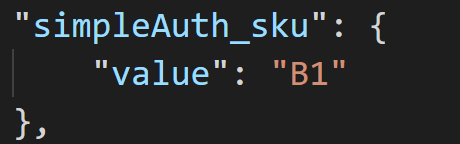
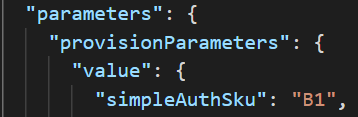
docs: update help document for ARM based provision

diff --git a/docs/fx-core/arm/arm-help.md b/docs/fx-core/arm/arm-help.md
@@ -26,11 +26,25 @@ There are two methods to mitigate this issue:
 #### Method #2
 1. Locate the segment wrapped the error in output.
 1. Open `.fx\configs\azure.parameters.{envName}.json` file
-1. If the error wrapped by `simpleAuthProvision` segment, add parameter value of 'simpleAuth_sku' 
+1. If the error wrapped by `simpleAuthProvision` segment, add property `simpleAuthSku` to `provisionParameters` and set the value to "B1" or other valid values.
+
     ![image](../../images/fx-core/arm/simple-auth-sku-config.png)
-1. If the error wrapped by `botProvision` segment, add parameter value of 'bot_webAppSKU'
+1. If the error wrapped by `botProvision` segment, add property `botWebAppSku` to `provisionParameters` and set the value to "B1" or other valid values.
+
     ![image](../../images/fx-core/arm/bot-sku-config.png)
 1. Run `Provision` command again
+
+***
+
+## Error Message
+Website with given name xxx already exists.
+
+The storage account named xxx already exists under the subscription.
+
+The name 'xxx' already exists. Choose a different name.
+
+### Mitigation
+This error indicates the name for one or multiple Azure resources that going to be created already exists. The default name for all Azure resources is calculated based on the `resourceBaseName` parameter in `.fx/configs/azure.parameters.{your_env_name}.json`. Please update the value of `resourceBaseName` to fix this error.
 
 ***
 
@@ -41,5 +55,19 @@ Cannot move or create server. Subscription 'xxx' will exceed server quota.
 
 1. Delete other SQL server
 1. Run `Provision` command again
+
+***
+
+## Error Message
+The subscription registration is in 'Unregistered' state. The subscription must be registered to use namespace 'xxx'.
+
+### Mitigation
+This error indicates your Azure account does not have required permission to register the namespace. There are two ways to mitigate this issue
+
+#### Method 1
+Switch to an Azure account that has subscription level Contributor role.
+
+#### Method 2
+Ask your subscription administrator to register the namespace mentioned in the error message by following this [link](https://aka.ms/rps-not-found).
 
 ***
